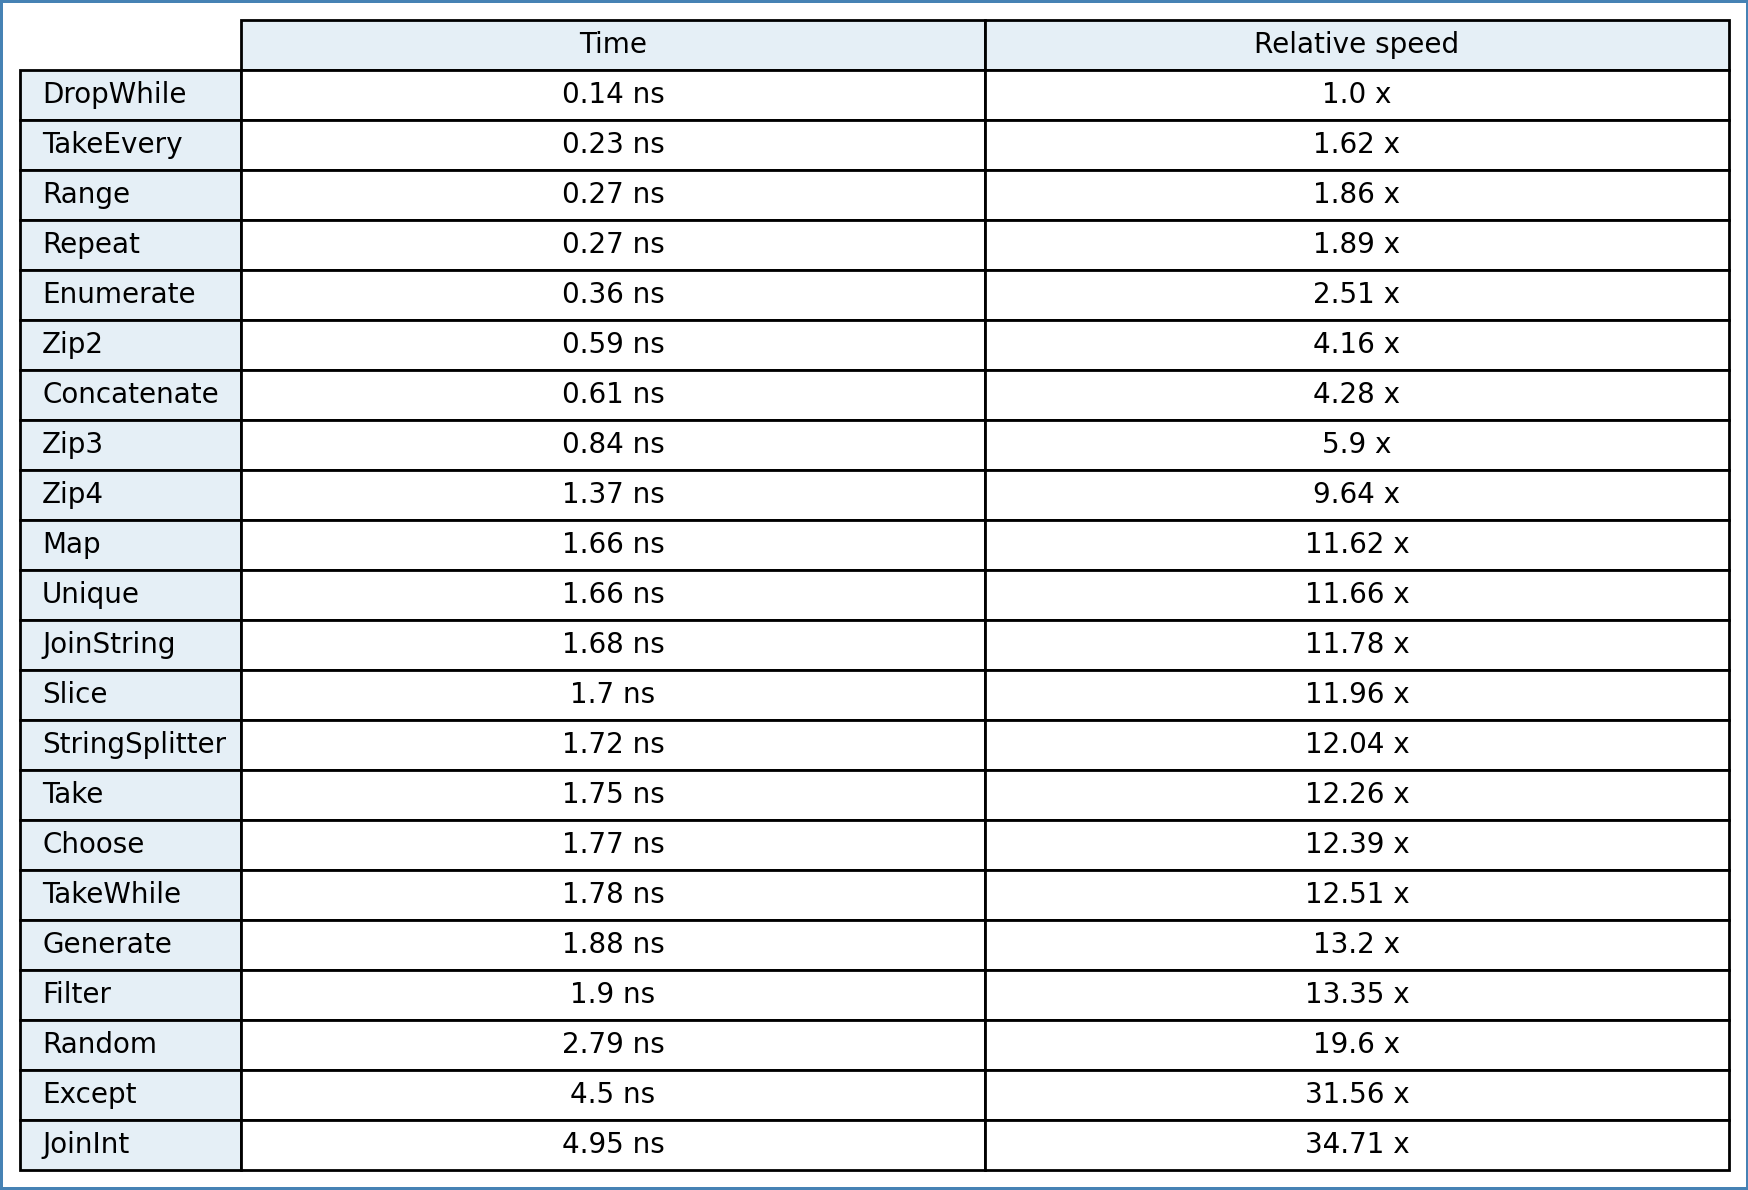
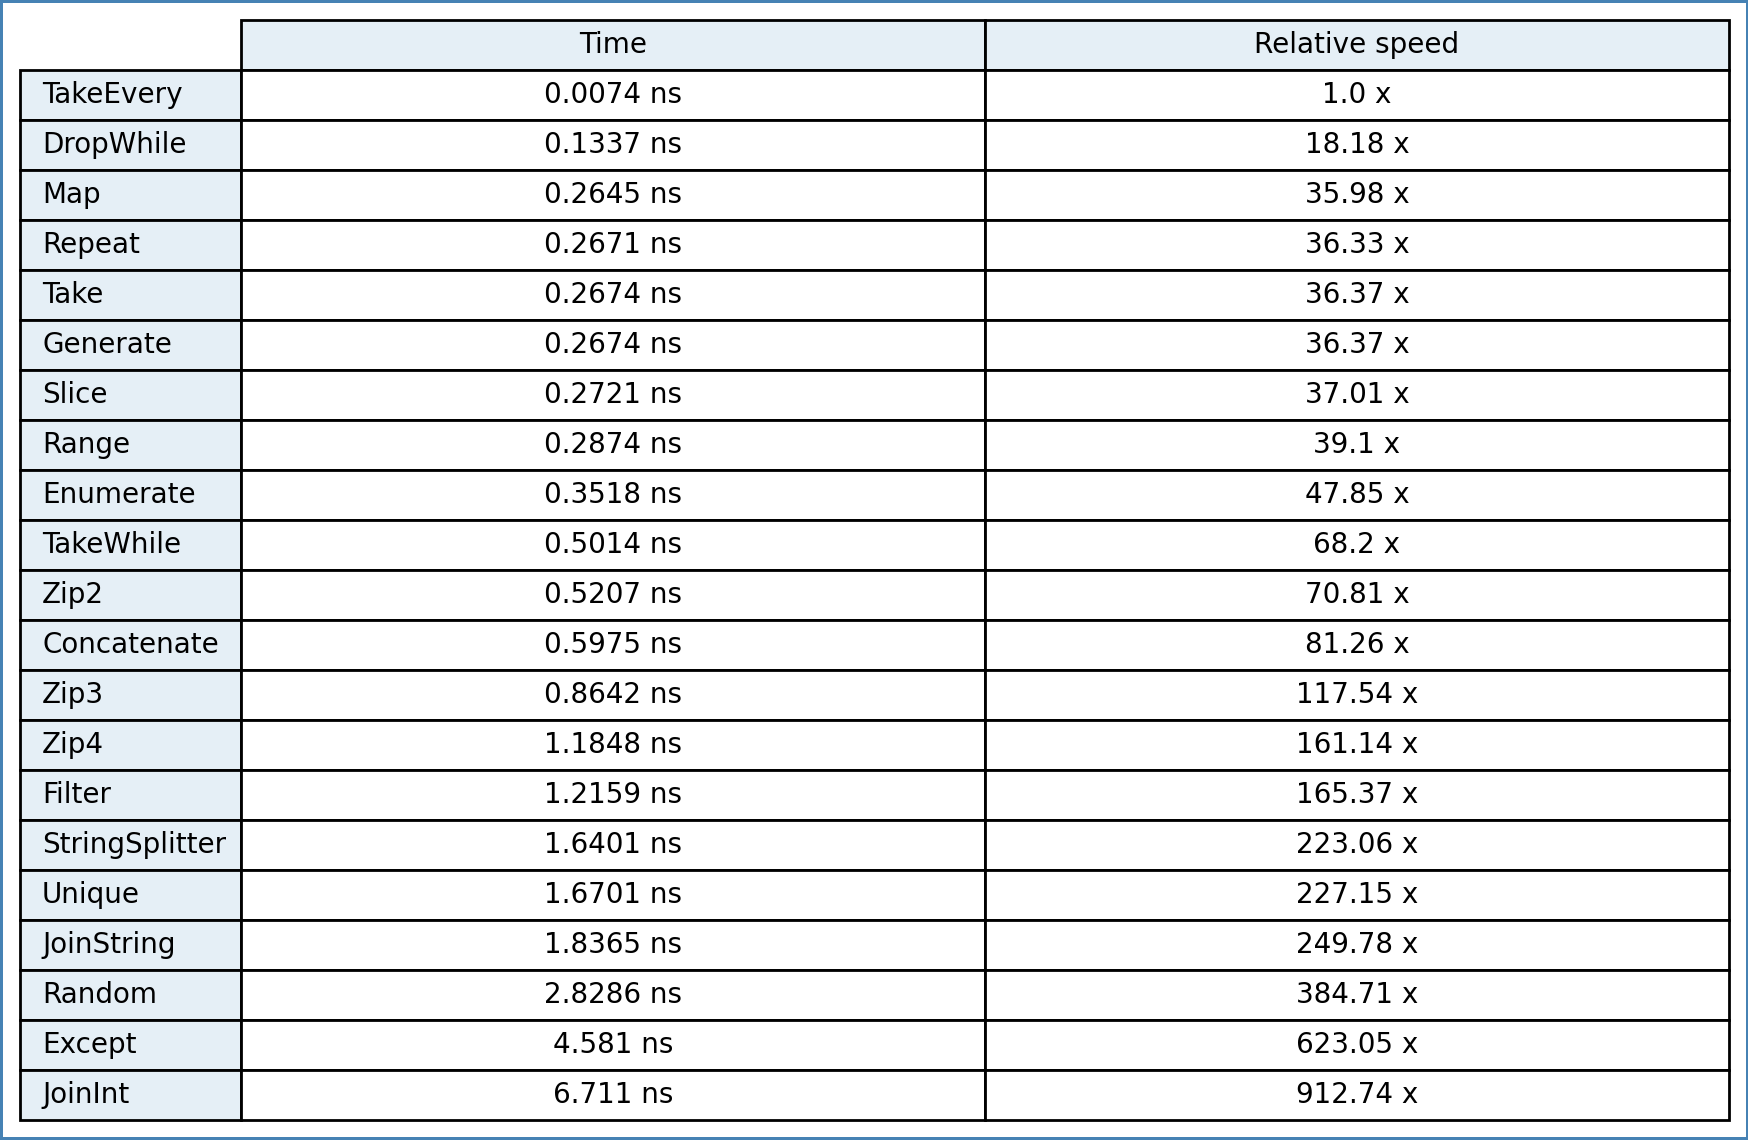
Updates for the benchmarks

Changed region(s): [[0.0, 0.0, 0.9886, 0.9825]]

diff --git a/bench/bar_chart_maker.py b/bench/bar_chart_maker.py
@@ -44,7 +44,7 @@ def make_table(benchmark_records, unit, cxx_version, caches, n_iterations, title
 
     cell_text = []
     for row in data:
-        cell_text.append([f'{round(row[0] / n_iterations, 2)} ns', f'{row[1]} x'])
+        cell_text.append([f'{round(row[0] / n_iterations, 4)} ns', f'{row[1]} x'])
 
     row_colors = plt.cm.BuPu(np.full(len(row_headers), 0.1))
     col_colors = plt.cm.BuPu(np.full(len(column_headers), 0.1))
@@ -95,7 +95,8 @@ def get_cmake_cxx_version():
 
 
 def main():
-    benchmark_file_path = os.path.join(os.getcwd(), '..', 'cmake-build-release', 'bench', 'benchmark-iterators.csv')
+    benchmark_file_path = os.path.join(os.getcwd(), '..', 'cmake-build-release-mingw', 'bench',
+                                       'benchmark-iterators.csv')
     cxx_version = get_cmake_cxx_version()
 
     with open(benchmark_file_path) as benchmarks_file:

diff --git a/bench/benchmarks-iterators.cpp b/bench/benchmarks-iterators.cpp
@@ -20,7 +20,7 @@ static void Enumerate(benchmark::State& state) {
 
 static void Filter(benchmark::State& state) {
     std::array<int, SizePolicy> arr{};
-    auto filter = lz::filter(arr, [](const int i) { return i != 0; });
+    auto filter = lz::filter(arr, [](const int i) { return i == 0; });
 
     for (auto _ : state) {
         for (const int filtered : filter) {
